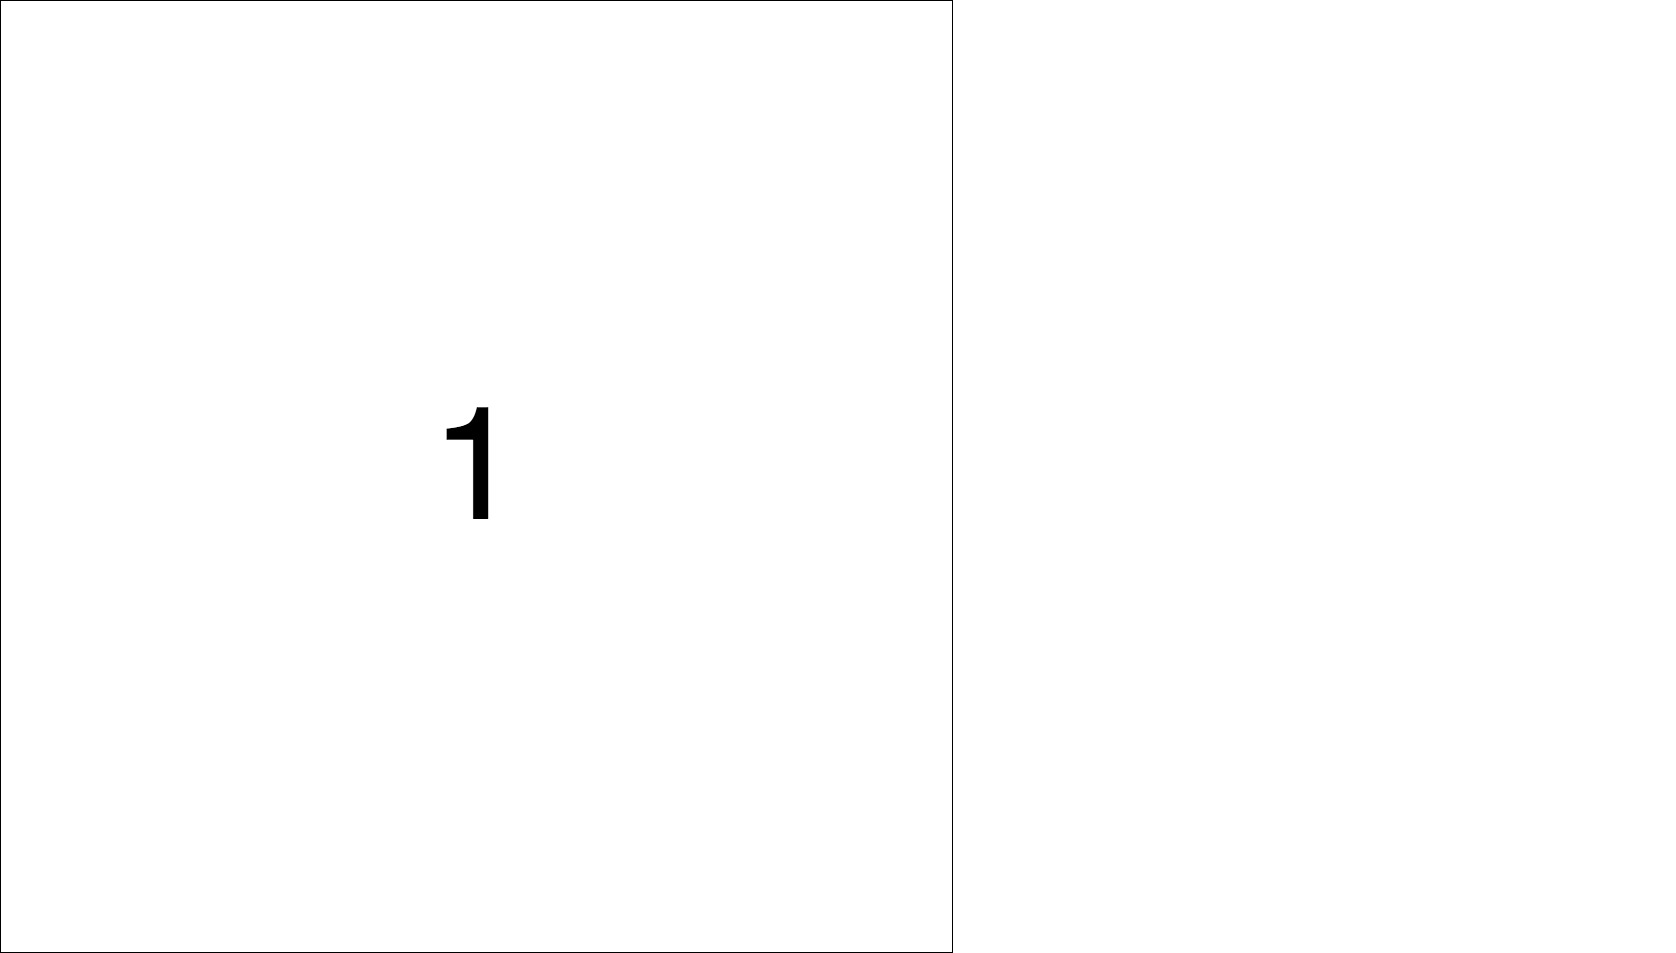
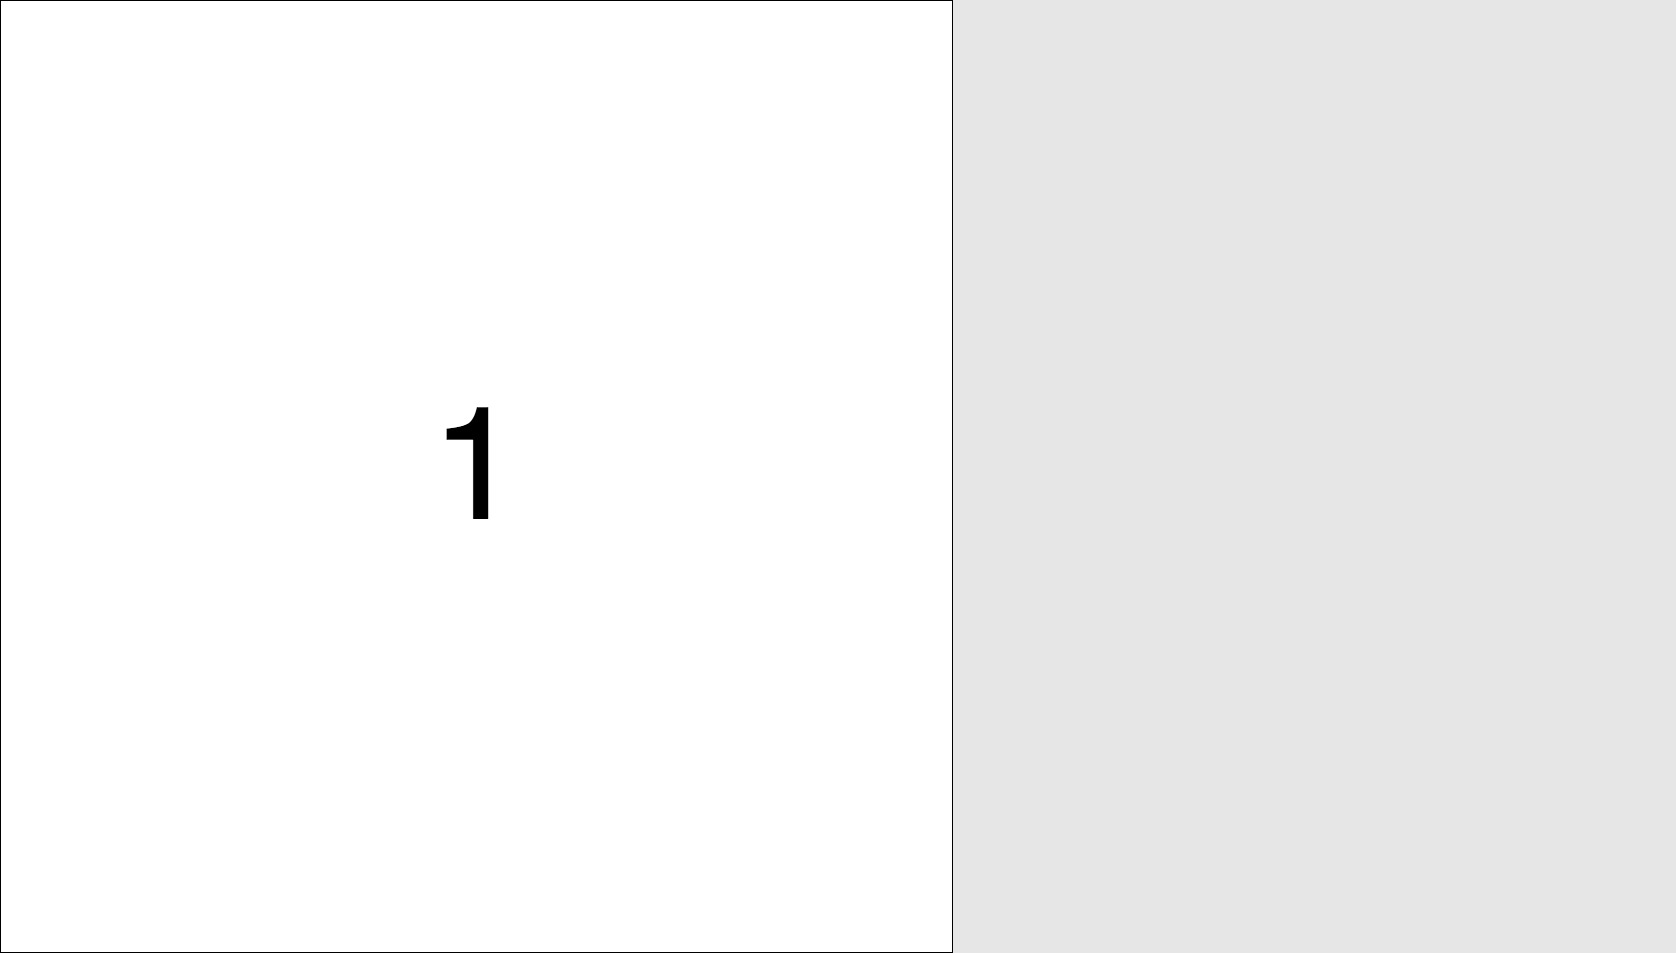
Changed background

diff --git a/main.js b/main.js
@@ -34,21 +34,19 @@
 */
 
 
-/* Main Program */
+// Global variables
+let canvas;
 
-let queryFrame, canvas;
-
+// p5.setup executes before p5.draw
 function setup() {
-   // p5.setup executes before p5.draw
    // Program starts with an empty canvas
    canvas = createCanvas(windowWidth, windowHeight);
-   queryFrame = 4;
 }
 
+// p5.draw contious animation loop
 function draw() {
-   // p5.draw contious animation loop
    // clear background with white
-   background(255);
+   background(230);
    textAlign(CENTER, CENTER);
 
    // animation timing
@@ -63,9 +61,5 @@ function draw() {
    }
 
    // renders animation frames
-   // see render.square_pack.js
    renderSquarePack(frameCount, width, height);
-   if(frameCount == queryFrame) {
-      //saveCanvas(canvas, frameCount + "-frame", "jpg");
-   }
 }

diff --git a/scripts/events.js b/scripts/events.js
@@ -6,3 +6,9 @@ function windowResized() {
    resizeCanvas(windowWidth, windowHeight);
    renderSquarePack(frameCount, width, height);
 }
+
+function keyPressed() {
+   if (key == " ") {
+      saveCanvas(canvas, "Frame-"+frameCount, "jpg");
+   }
+}

diff --git a/README.md b/README.md
@@ -1,6 +1,6 @@
 # How to pack a specified number of squares in any given browser window?
 
-![Frame 1221](output/Frame-1221.png)
+![Frame 86](output/Frame-86.png)
 
 ## How the program works.  
 
@@ -27,8 +27,8 @@ the loop when (s) is reaching 1.
 
 ## Results
 
-I tested this on my laptop screen and had the 
-program stop at specific frames to export an image. 
+I tested this on my laptop screen and had the
+program stop at specific frames to export an image.
 
 Frame 1
 ![Frame 1](output/Frame-1.jpg)
@@ -39,13 +39,21 @@ Frame 2
 Frame 3
 ![Frame 3](output/Frame-3.jpg)
 
+Frame 4
+![Frame 4](output/Frame-4.jpg)
+
 Frame 5
 
-![Frame 4](output/Frame-5.jpg)
+![Frame 5](output/Frame-5.jpg)
 
 Frame 6
 
 ![Frame 6](output/Frame-6.jpg)
+
+Frame 7
+
+![Frame 7](output/Frame-7.jpg)
+
 
 ## Working example:  
 
